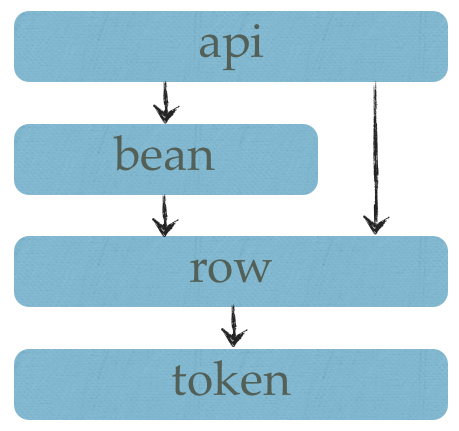
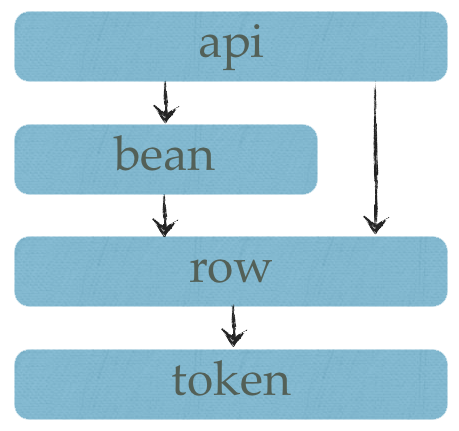
Made the images transparant

diff --git a/comparison-matrix.html b/comparison-matrix.html
@@ -397,7 +397,27 @@
                     <td class="appraisal">no</td>
                     <td class="appraisal">yes, untried</td>
                     <td class="appraisal">no</td>
-                    <td class="appraisal">no <a href=""><img src="images/question-mark.png"/></a></td>
+                    <td class="appraisal">no <a href="design-choices.html#deep-conversion"><img src="images/question-mark.png"/></a></td>
+                </tr>
+                <tr>
+                    <td class="property">Split cell to multiple properties</td>
+                    <td class="appraisal">"</td>
+                    <td class="appraisal">"</td>
+                    <td class="appraisal">"</td>
+                    <td class="appraisal">no</td>
+                    <td class="appraisal">no</td>
+                    <td class="appraisal">no</td>
+                    <td class="appraisal">no <a href="design-choices.html#split-and-join"><img src="images/question-mark.png"/></a></td>
+                </tr>
+                <tr>
+                    <td class="property">Join multiple cells into one property</td>
+                    <td class="appraisal">"</td>
+                    <td class="appraisal">"</td>
+                    <td class="appraisal">"</td>
+                    <td class="appraisal">no</td>
+                    <td class="appraisal">no</td>
+                    <td class="appraisal">no</td>
+                    <td class="appraisal">no <a href="design-choices.html#split-and-join"><img src="images/question-mark.png"/></a></td>
                 </tr>
             </tbody>
         </table>
@@ -485,7 +505,7 @@
                     <td class="appraisal">no</td>
                     <td class="appraisal">yes</td>
                     <td class="appraisal">no</td>
-                    <td class="appraisal">no</td>
+                    <td class="appraisal">yes</td>
                 </tr>
                 <tr>
                     <td class="property">JavaDoc</td>
@@ -594,7 +614,7 @@
                     <td class="appraisal">no</td>
                     <td class="appraisal">no</td>
                     <td class="appraisal">no</td>
-                    <td class="appraisal">no</td>
+                    <td class="appraisal">no <a href="design-choices.html#errors"><img src="images/question-mark.png"/></a></td>
                 </tr>
             </tbody>
         </table>

diff --git a/design-choices.html b/design-choices.html
@@ -42,6 +42,8 @@
                 <li><a href="#layering">Architecture</a>; why have the layering of CSV and not roll all into one layer?</li>
                 <li><a href="#errors">Error feedback</a>; what is your thing with error feedback?</li>
                 <li><a href="#facade">Facade</a>; why the Facade?</li>
+                <li><a href="#deep-conversion">Deep conversion</a>; will CSVeed have deep conversion in due time?</li>
+                <li><a href="#split-and-join">Splits and joins</a>; will CSVeed have splits and joins in due time?</li>
             </ul>
             
             <h2 id="tokenizer">Tokenizer</h2>
@@ -87,6 +89,20 @@
             <p>The user, on the other hand, is given a treat; it gets the simplest possible interface to interact with the library. The community has shown itself very enthousiastic over the simplicity of JavaCSV.</p>
 
             <p>CSVeed takes a different route. The maintenance mess of just two classes has been evaded, while the user still gets a simple interface. The way this is done is by setting up a Facade that shields the underlying complexity.</p>
+
+            <h2 id="deep-conversion">Deep Conversion</h2>
+
+            <p>...</p>
+
+            <img src="images/deep-conversion.png" width="500"/>
+
+            <h2 id="split-and-join">Splits and Joins</h2>
+
+            <p>...</p>
+
+            <img src="images/split.png"/>
+
+            <img src="images/join.png"/>
 
         </section>
 
